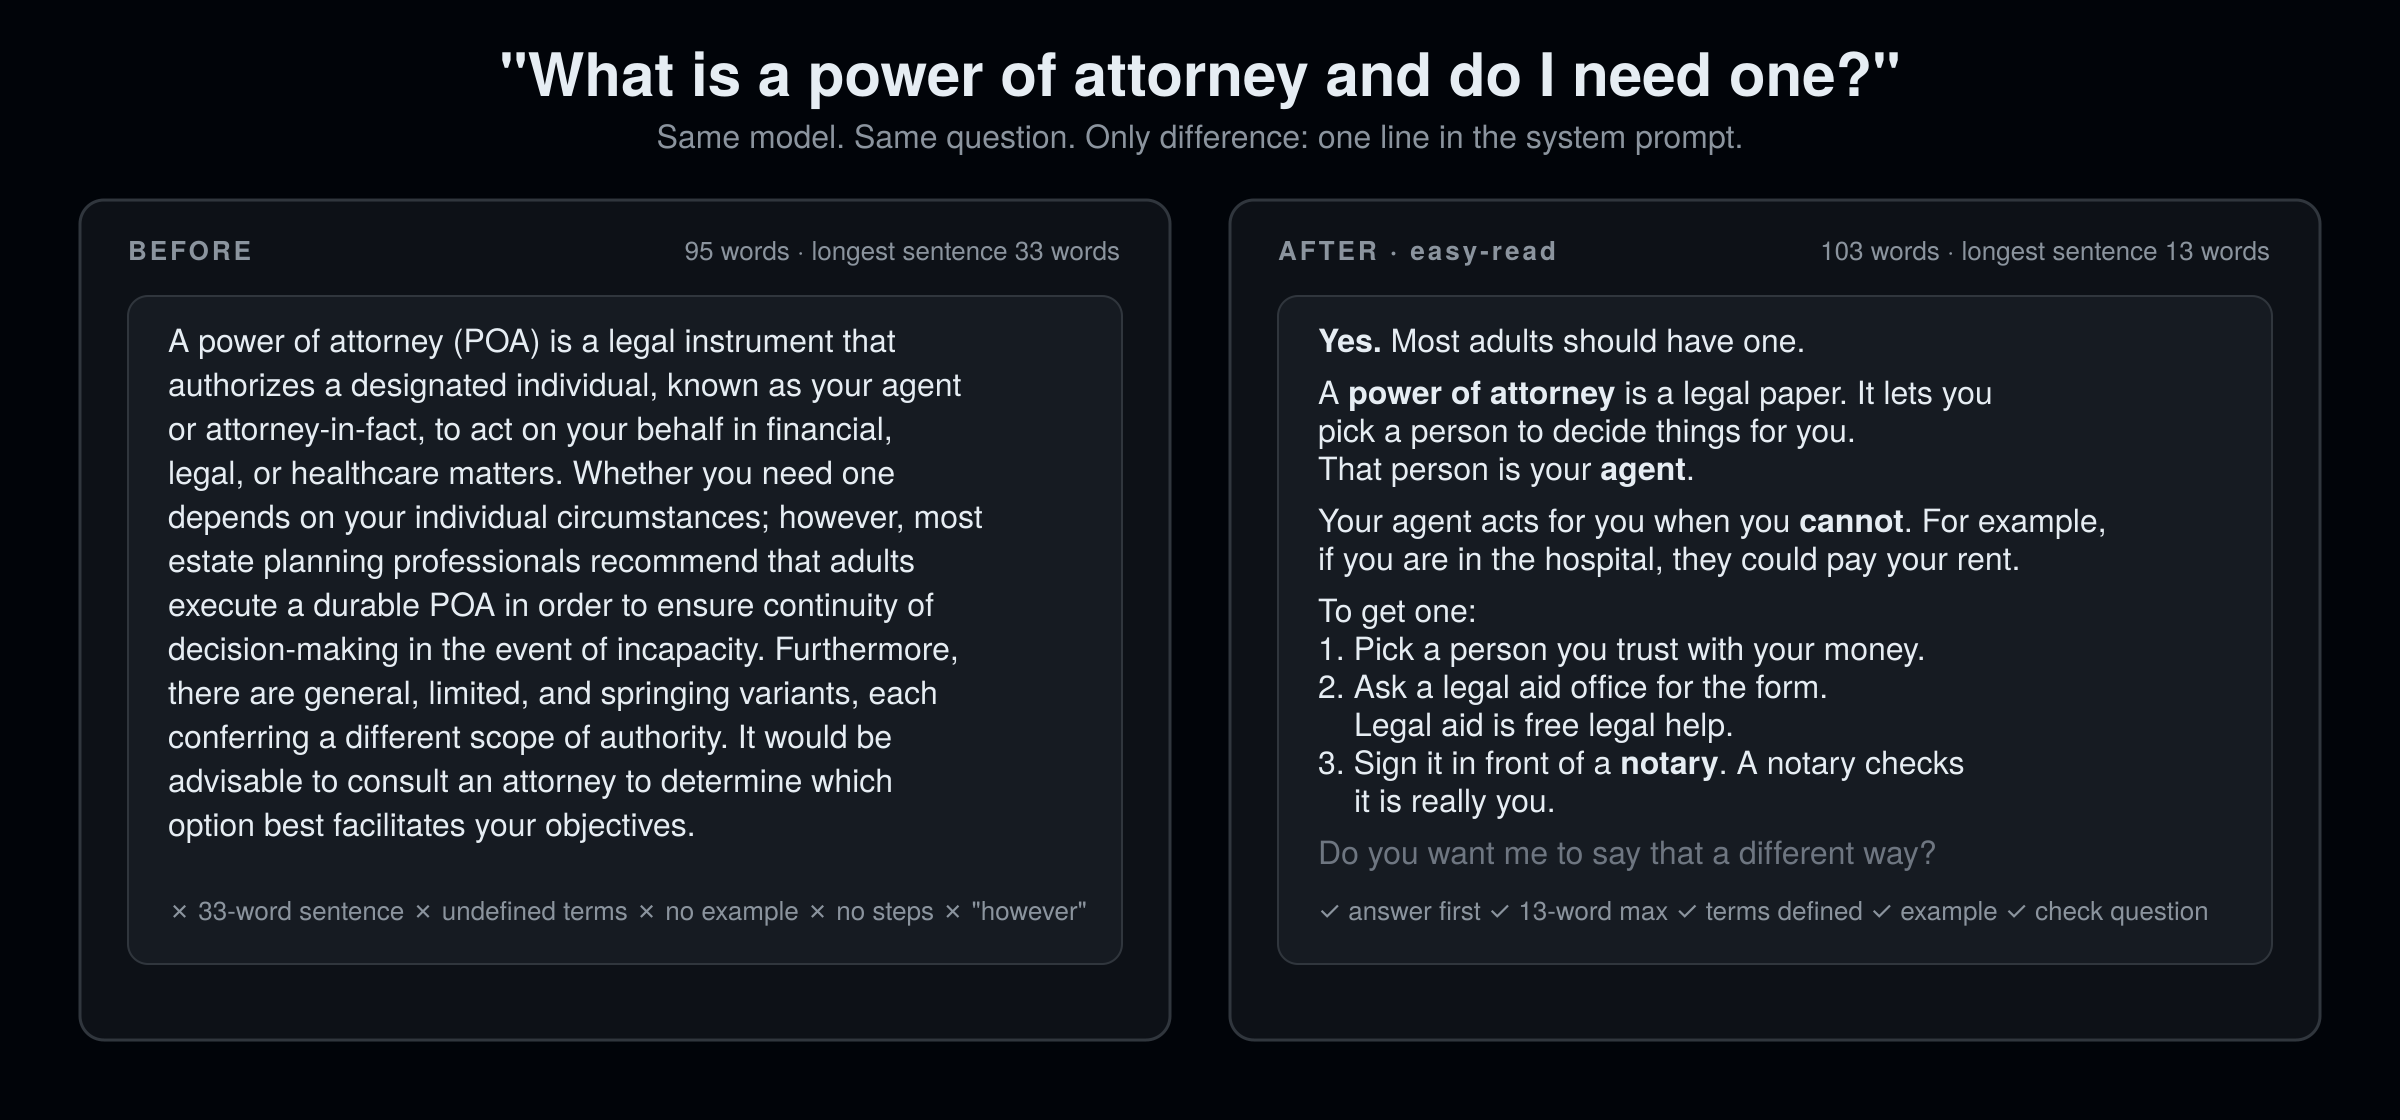
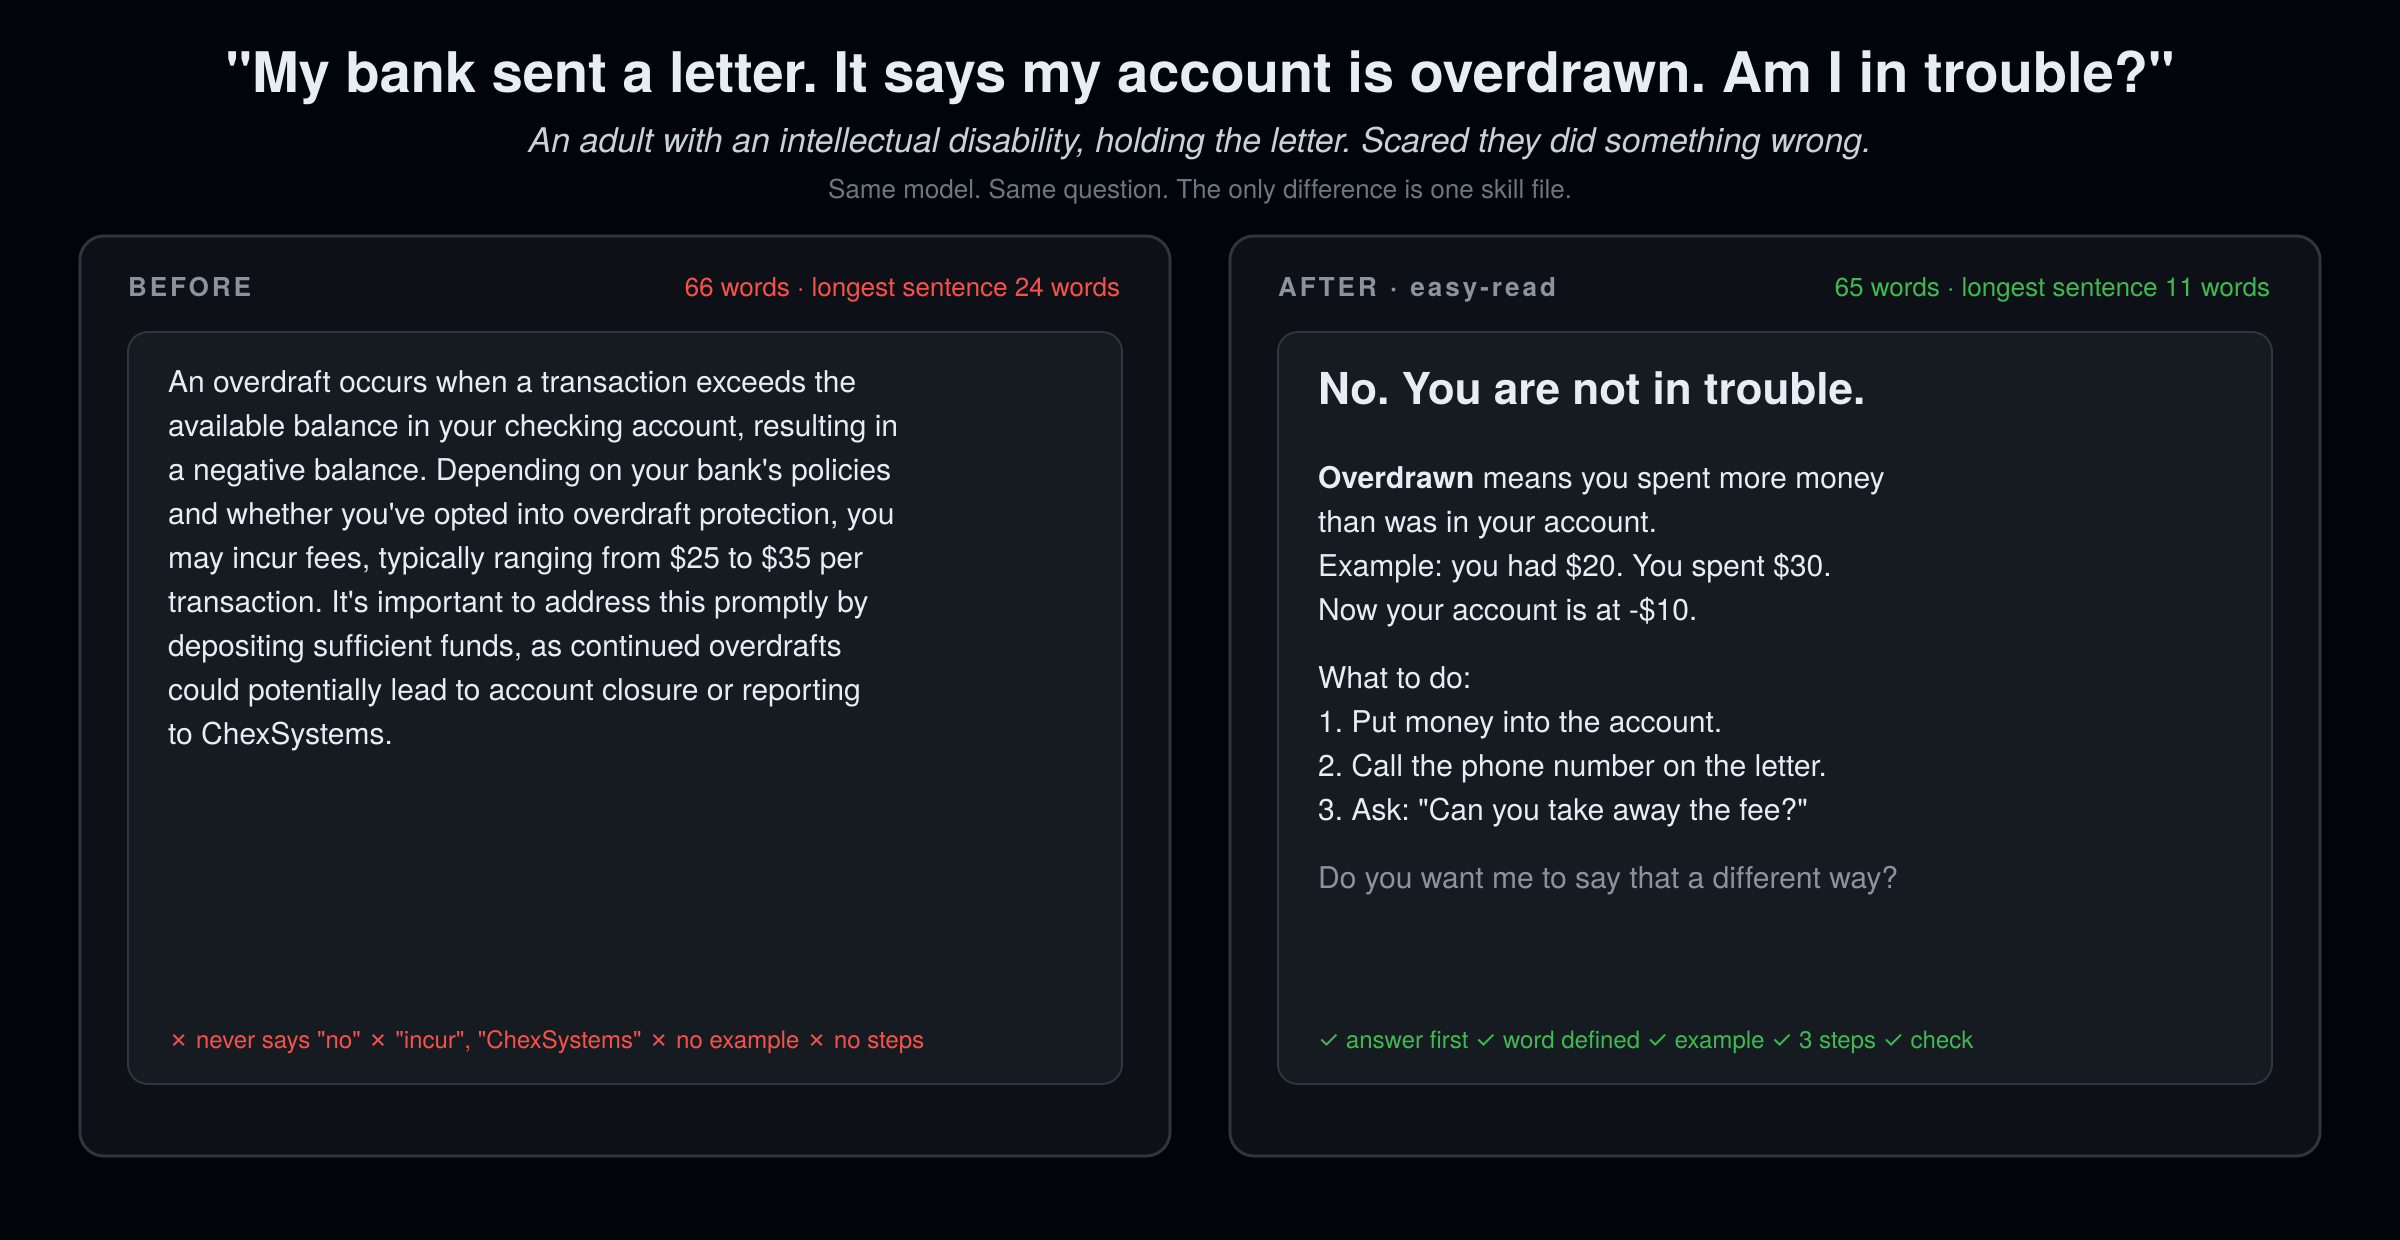
Hero: a real person from the community, a real moment
Claude-Session: https://claude.ai/code/session_01JNkmk7gcrUnzBfGrVpCjeG

diff --git a/README.md b/README.md
@@ -22,7 +22,7 @@
 npx skills add rosenhub/easy-read
 ```
 
-<img src="assets/before-after.png" alt="Before: 95 words, longest sentence 33 words, undefined terms, no example, no steps. After: 103 words, longest sentence 13 words, answer first, terms defined, example, check question." width="100%">
+<img src="assets/before-after.png" alt="Before: 66 words · longest sentence 24 words. After: 65 words · longest sentence 11 words. An adult with an intellectual disability, holding the letter. Scared they did something wrong." width="100%">
 
 Part of [AI Their Way](https://github.com/rosenhub/ai-their-way) — siblings: [no-subtext](https://github.com/rosenhub/no-subtext) · [what-did-they-mean](https://github.com/rosenhub/what-did-they-mean) · [never-say-remember](https://github.com/rosenhub/never-say-remember) · [presume-competence](https://github.com/rosenhub/presume-competence) · [low-demand](https://github.com/rosenhub/low-demand) · [is-this-a-scam](https://github.com/rosenhub/is-this-a-scam) · [one-thing](https://github.com/rosenhub/one-thing)
 
@@ -90,25 +90,24 @@ If your host isn't here and it reads markdown instructions from a file, it works
 
 Same model. Same prompt. The only change is the skill.
 
-### "What is a power of attorney and do I need one?"
+### "My bank sent a letter that says my account is overdrawn. Am I in trouble?"
+
+*An adult with an intellectual disability, holding the letter. Scared they did something wrong.*
 
 **Before**
 
-> A power of attorney (POA) is a legal instrument that authorizes a designated individual, known as your agent or attorney-in-fact, to act on your behalf in financial, legal, or healthcare matters. Whether you need one depends on your individual circumstances; however, most estate planning professionals recommend that adults execute a durable POA in order to ensure continuity of decision-making in the event of incapacity. Furthermore, there are general, limited, and springing variants, each conferring a different scope of authority. It would be advisable to consult an attorney to determine which option best facilitates your objectives.
+> An overdraft occurs when a transaction exceeds the available balance in your checking account, resulting in a negative balance. Depending on your bank's policies and whether you've opted into overdraft protection, you may incur fees, typically ranging from $25 to $35 per transaction. It's important to address this promptly by depositing sufficient funds, as continued overdrafts could potentially lead to account closure or reporting to ChexSystems.
 
 **After**
 
-> **Yes.** Most adults should have one.
+> No. You are not in trouble.
 >
-> A **power of attorney** is a legal paper. It lets you pick a person to decide things for you. That person is your **agent**.
+> **Overdrawn** means you spent more money than was in your account. Example: you had $20. You spent $30. Now your account is at -$10.
 >
-> Your agent acts for you when you **cannot**. For example, if you are in the hospital, they could pay your rent.
->
-> To get one:
->
-> 1. Pick a person you trust with your money.
-> 2. Ask a legal aid office for the form. Legal aid is free legal help.
-> 3. Sign it in front of a **notary**. A notary checks it is really you.
+> What to do:
+> 1. Put money into the account.
+> 2. Call the phone number on the letter.
+> 3. Ask: "Can you take away the fee?"
 >
 > Do you want me to say that a different way?
 

diff --git a/eval/samples/before.md b/eval/samples/before.md
@@ -1,1 +1,1 @@
-A power of attorney (POA) is a legal instrument that authorizes a designated individual, known as your agent or attorney-in-fact, to act on your behalf in financial, legal, or healthcare matters. Whether you need one depends on your individual circumstances; however, most estate planning professionals recommend that adults execute a durable POA in order to ensure continuity of decision-making in the event of incapacity. Furthermore, there are general, limited, and springing variants, each conferring a different scope of authority. It would be advisable to consult an attorney to determine which option best facilitates your objectives.
+An overdraft occurs when a transaction exceeds the available balance in your checking account, resulting in a negative balance. Depending on your bank's policies and whether you've opted into overdraft protection, you may incur fees, typically ranging from $25 to $35 per transaction. It's important to address this promptly by depositing sufficient funds, as continued overdrafts could potentially lead to account closure or reporting to ChexSystems.

diff --git a/eval/samples/after.md b/eval/samples/after.md
@@ -1,13 +1,10 @@
-**Yes.** Most adults should have one.
+No. You are not in trouble.
 
-A **power of attorney** is a legal paper. It lets you pick a person to decide things for you. That person is your **agent**.
+**Overdrawn** means you spent more money than was in your account. Example: you had $20. You spent $30. Now your account is at -$10.
 
-Your agent acts for you when you **cannot**. For example, if you are in the hospital, they could pay your rent.
-
-To get one:
-
-1. Pick a person you trust with your money.
-2. Ask a legal aid office for the form. Legal aid is free legal help.
-3. Sign it in front of a **notary**. A notary checks it is really you.
+What to do:
+1. Put money into the account.
+2. Call the phone number on the letter.
+3. Ask: "Can you take away the fee?"
 
 Do you want me to say that a different way?
